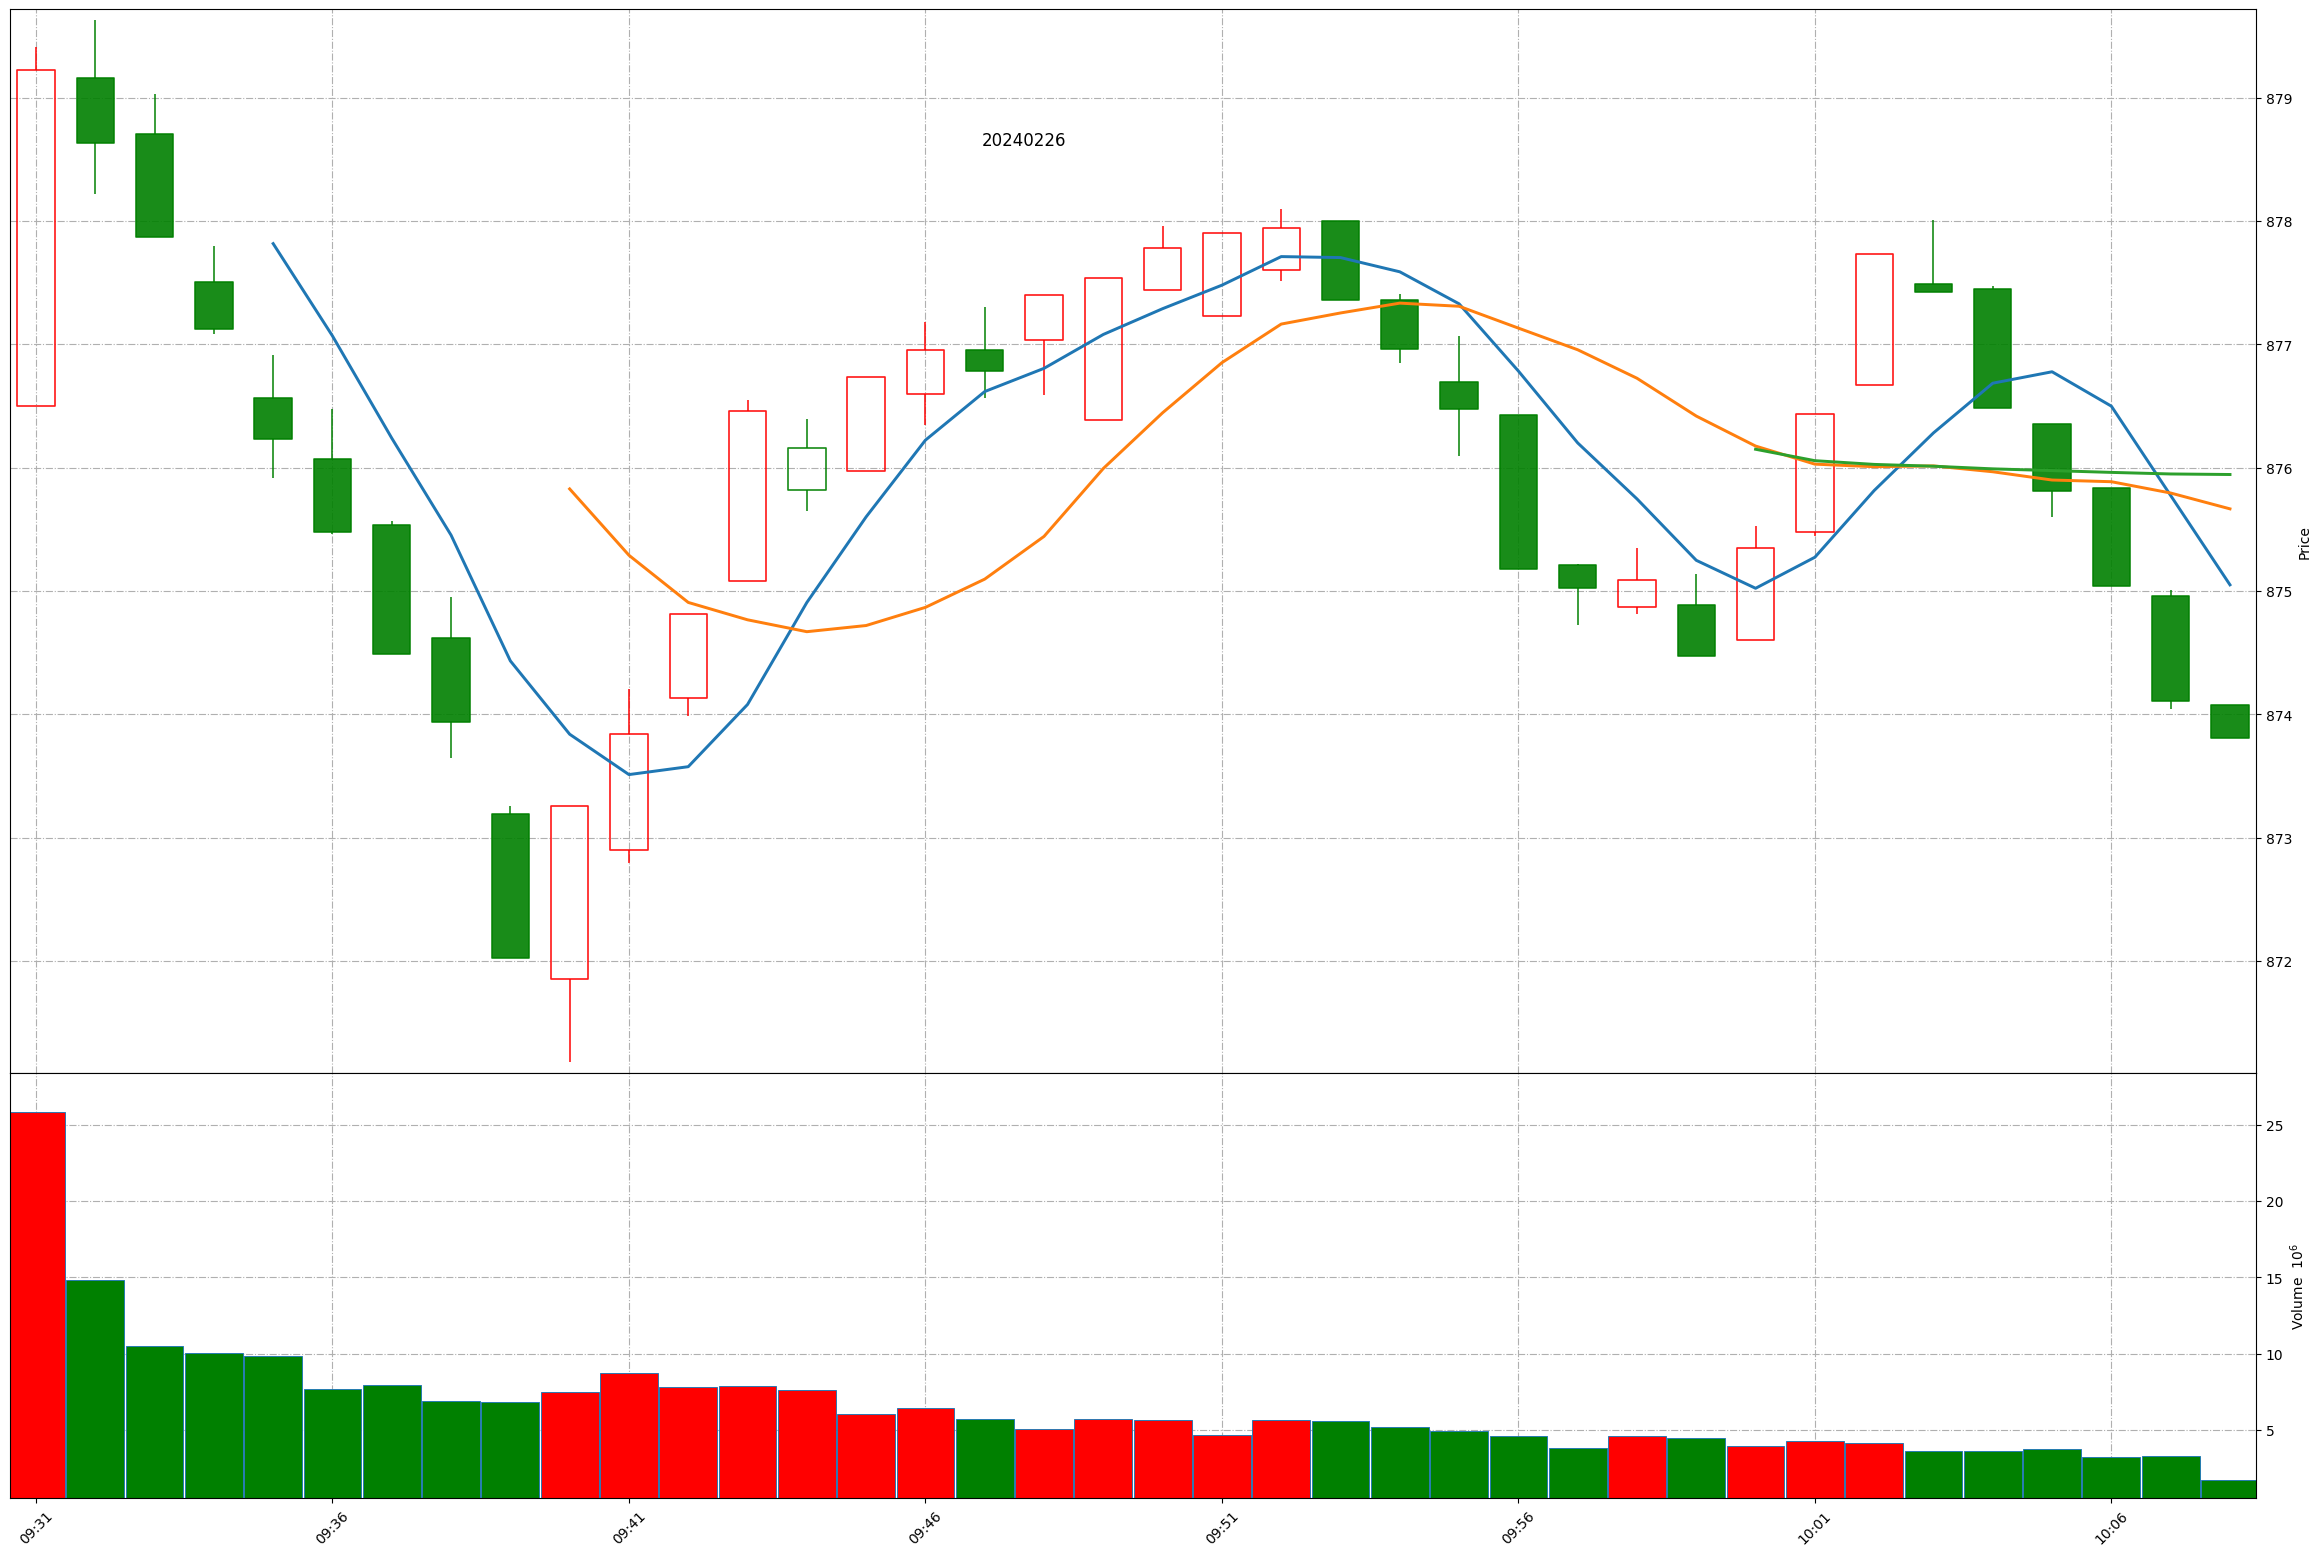
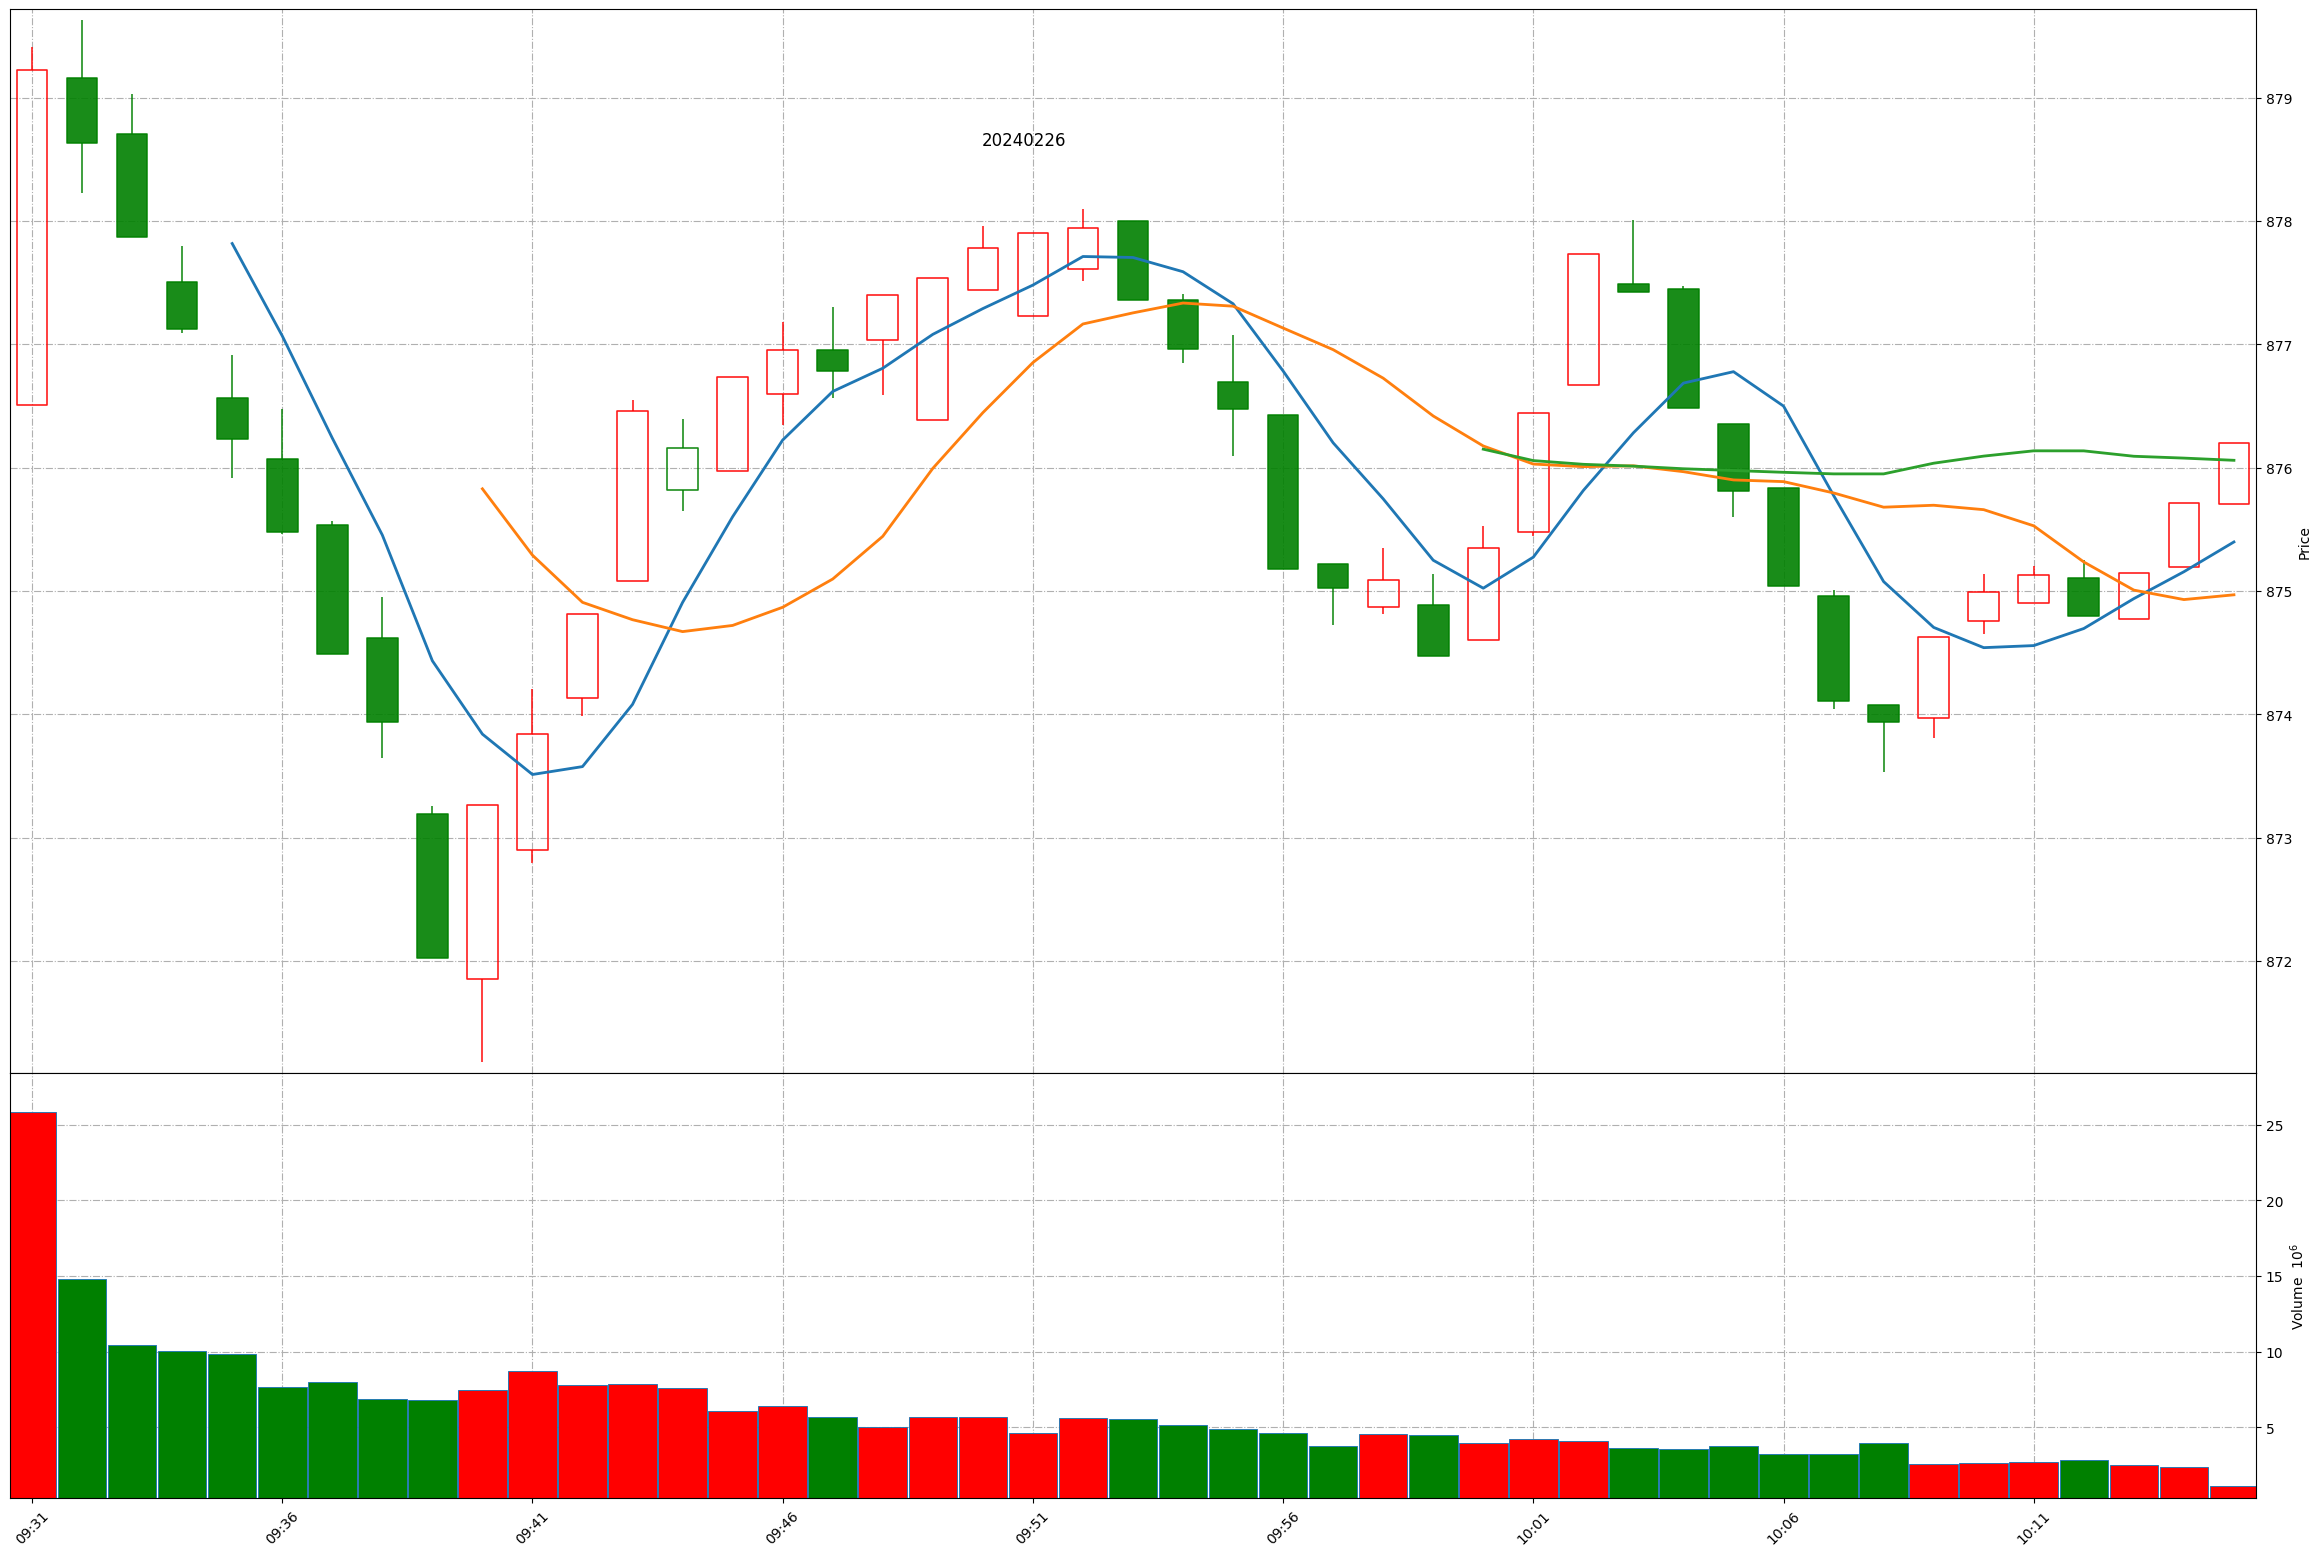
Github action update at 2024-02-26 10:14:44.

diff --git a/README.md b/README.md
@@ -1,11 +1,11 @@
 
 # Daily-A-share-market-quotes 每日 A 股指数（5min 更新）- 20240226
 
-### 上证指数 20240226 10:7
+### 上证指数 20240226 10:14
 ![](./fig/2024/2/20240226-sh000001.png)
 
-### 深证成指 20240226 10:7
+### 深证成指 20240226 10:14
 ![](./fig/2024/2/20240226-sz399001.png)
 
-### 北证50 20240226 10:7
+### 北证50 20240226 10:14
 ![](./fig/2024/2/20240226-bj899050.png)
